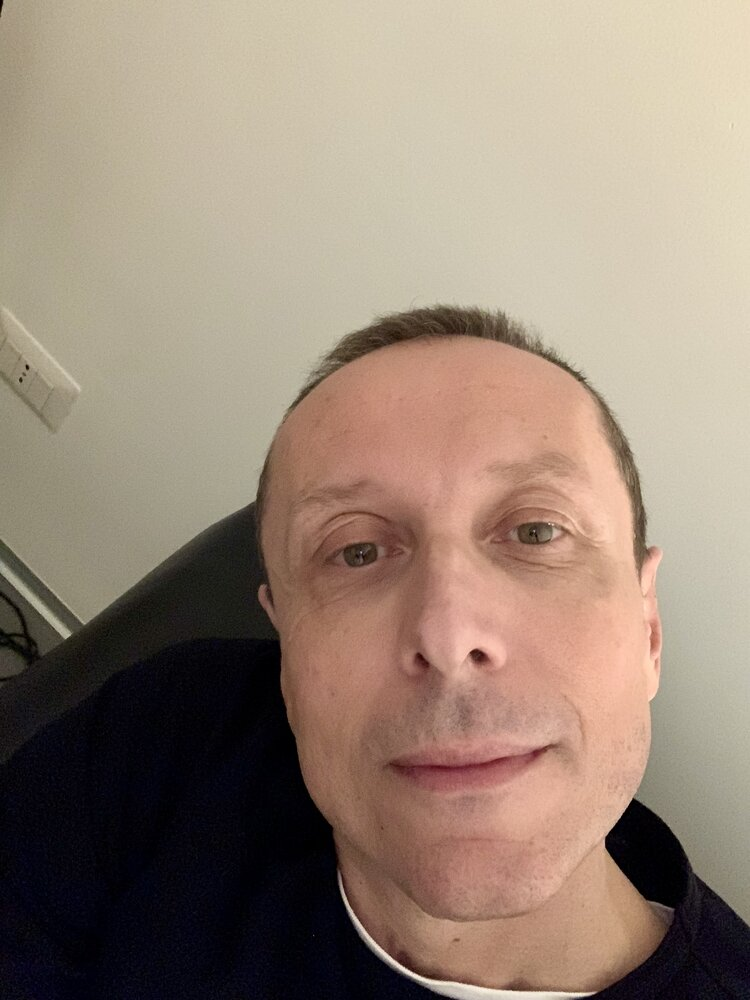
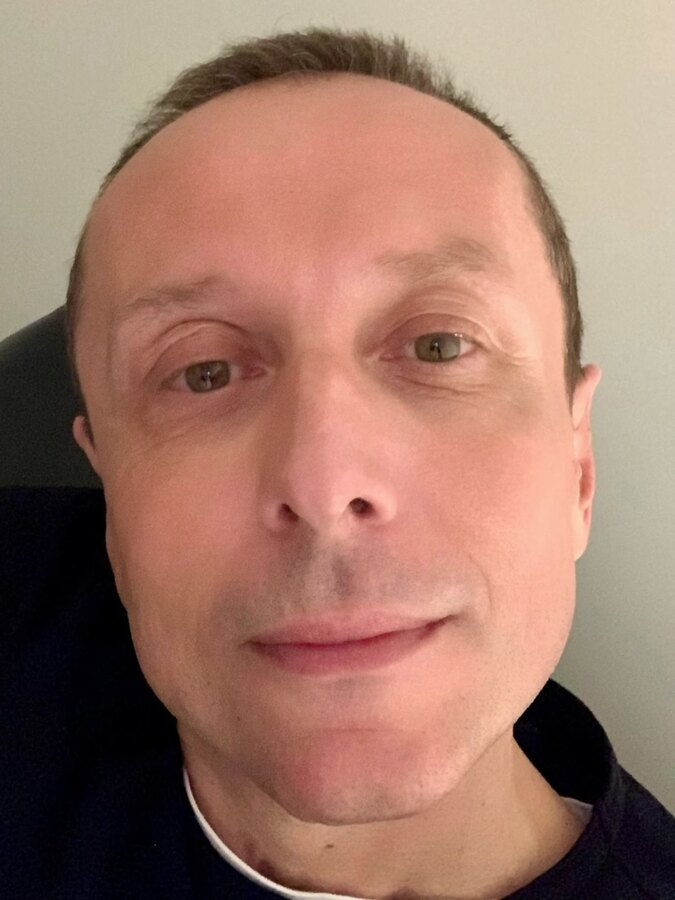
Galleria: 2016 prima del 2014; 1273 come A casa con l influenza

diff --git a/en.html b/en.html
@@ -256,10 +256,6 @@
             <figcaption>Roberto.</figcaption>
           </figure>
           <figure>
-            <img src="roberto-volto.jpg" alt="Roberto, close up" loading="lazy">
-            <figcaption>Roberto, up close.</figcaption>
-          </figure>
-          <figure>
             <img src="roberto-libreria.jpg" alt="Roberto among his books" loading="lazy">
             <figcaption>Among his books.</figcaption>
           </figure>
@@ -276,12 +272,12 @@
             <figcaption>Roberto and Ilaria.</figcaption>
           </figure>
           <figure>
-            <img src="roberto-marco-2014.jpg" alt="Roberto and Marco, 2014" loading="lazy">
-            <figcaption>Roberto and Marco, 2014.</figcaption>
-          </figure>
-          <figure>
             <img src="roberto-marco-2016.jpg" alt="Roberto and Marco at Parco Sempione, Milan 2016" loading="lazy">
             <figcaption>Roberto and Marco, Parco Sempione 2016.</figcaption>
+          </figure>
+          <figure>
+            <img src="roberto-marco-2014.jpg" alt="Roberto and Marco, 2014" loading="lazy">
+            <figcaption>Roberto and Marco, 2014.</figcaption>
           </figure>
         </div>
       </div>

diff --git a/index.html b/index.html
@@ -258,10 +258,6 @@
             <figcaption>Roberto.</figcaption>
           </figure>
           <figure>
-            <img src="roberto-volto.jpg" alt="Roberto, primo piano" loading="lazy">
-            <figcaption>Roberto, da vicino.</figcaption>
-          </figure>
-          <figure>
             <img src="roberto-libreria.jpg" alt="Roberto tra i suoi libri" loading="lazy">
             <figcaption>Tra i suoi libri.</figcaption>
           </figure>
@@ -278,12 +274,12 @@
             <figcaption>Roberto e Ilaria.</figcaption>
           </figure>
           <figure>
-            <img src="roberto-marco-2014.jpg" alt="Roberto e Marco, 2014" loading="lazy">
-            <figcaption>Roberto e Marco, 2014.</figcaption>
-          </figure>
-          <figure>
             <img src="roberto-marco-2016.jpg" alt="Roberto e Marco al Parco Sempione, Milano 2016" loading="lazy">
             <figcaption>Roberto e Marco, Parco Sempione 2016.</figcaption>
+          </figure>
+          <figure>
+            <img src="roberto-marco-2014.jpg" alt="Roberto e Marco, 2014" loading="lazy">
+            <figcaption>Roberto e Marco, 2014.</figcaption>
           </figure>
         </div>
       </div>